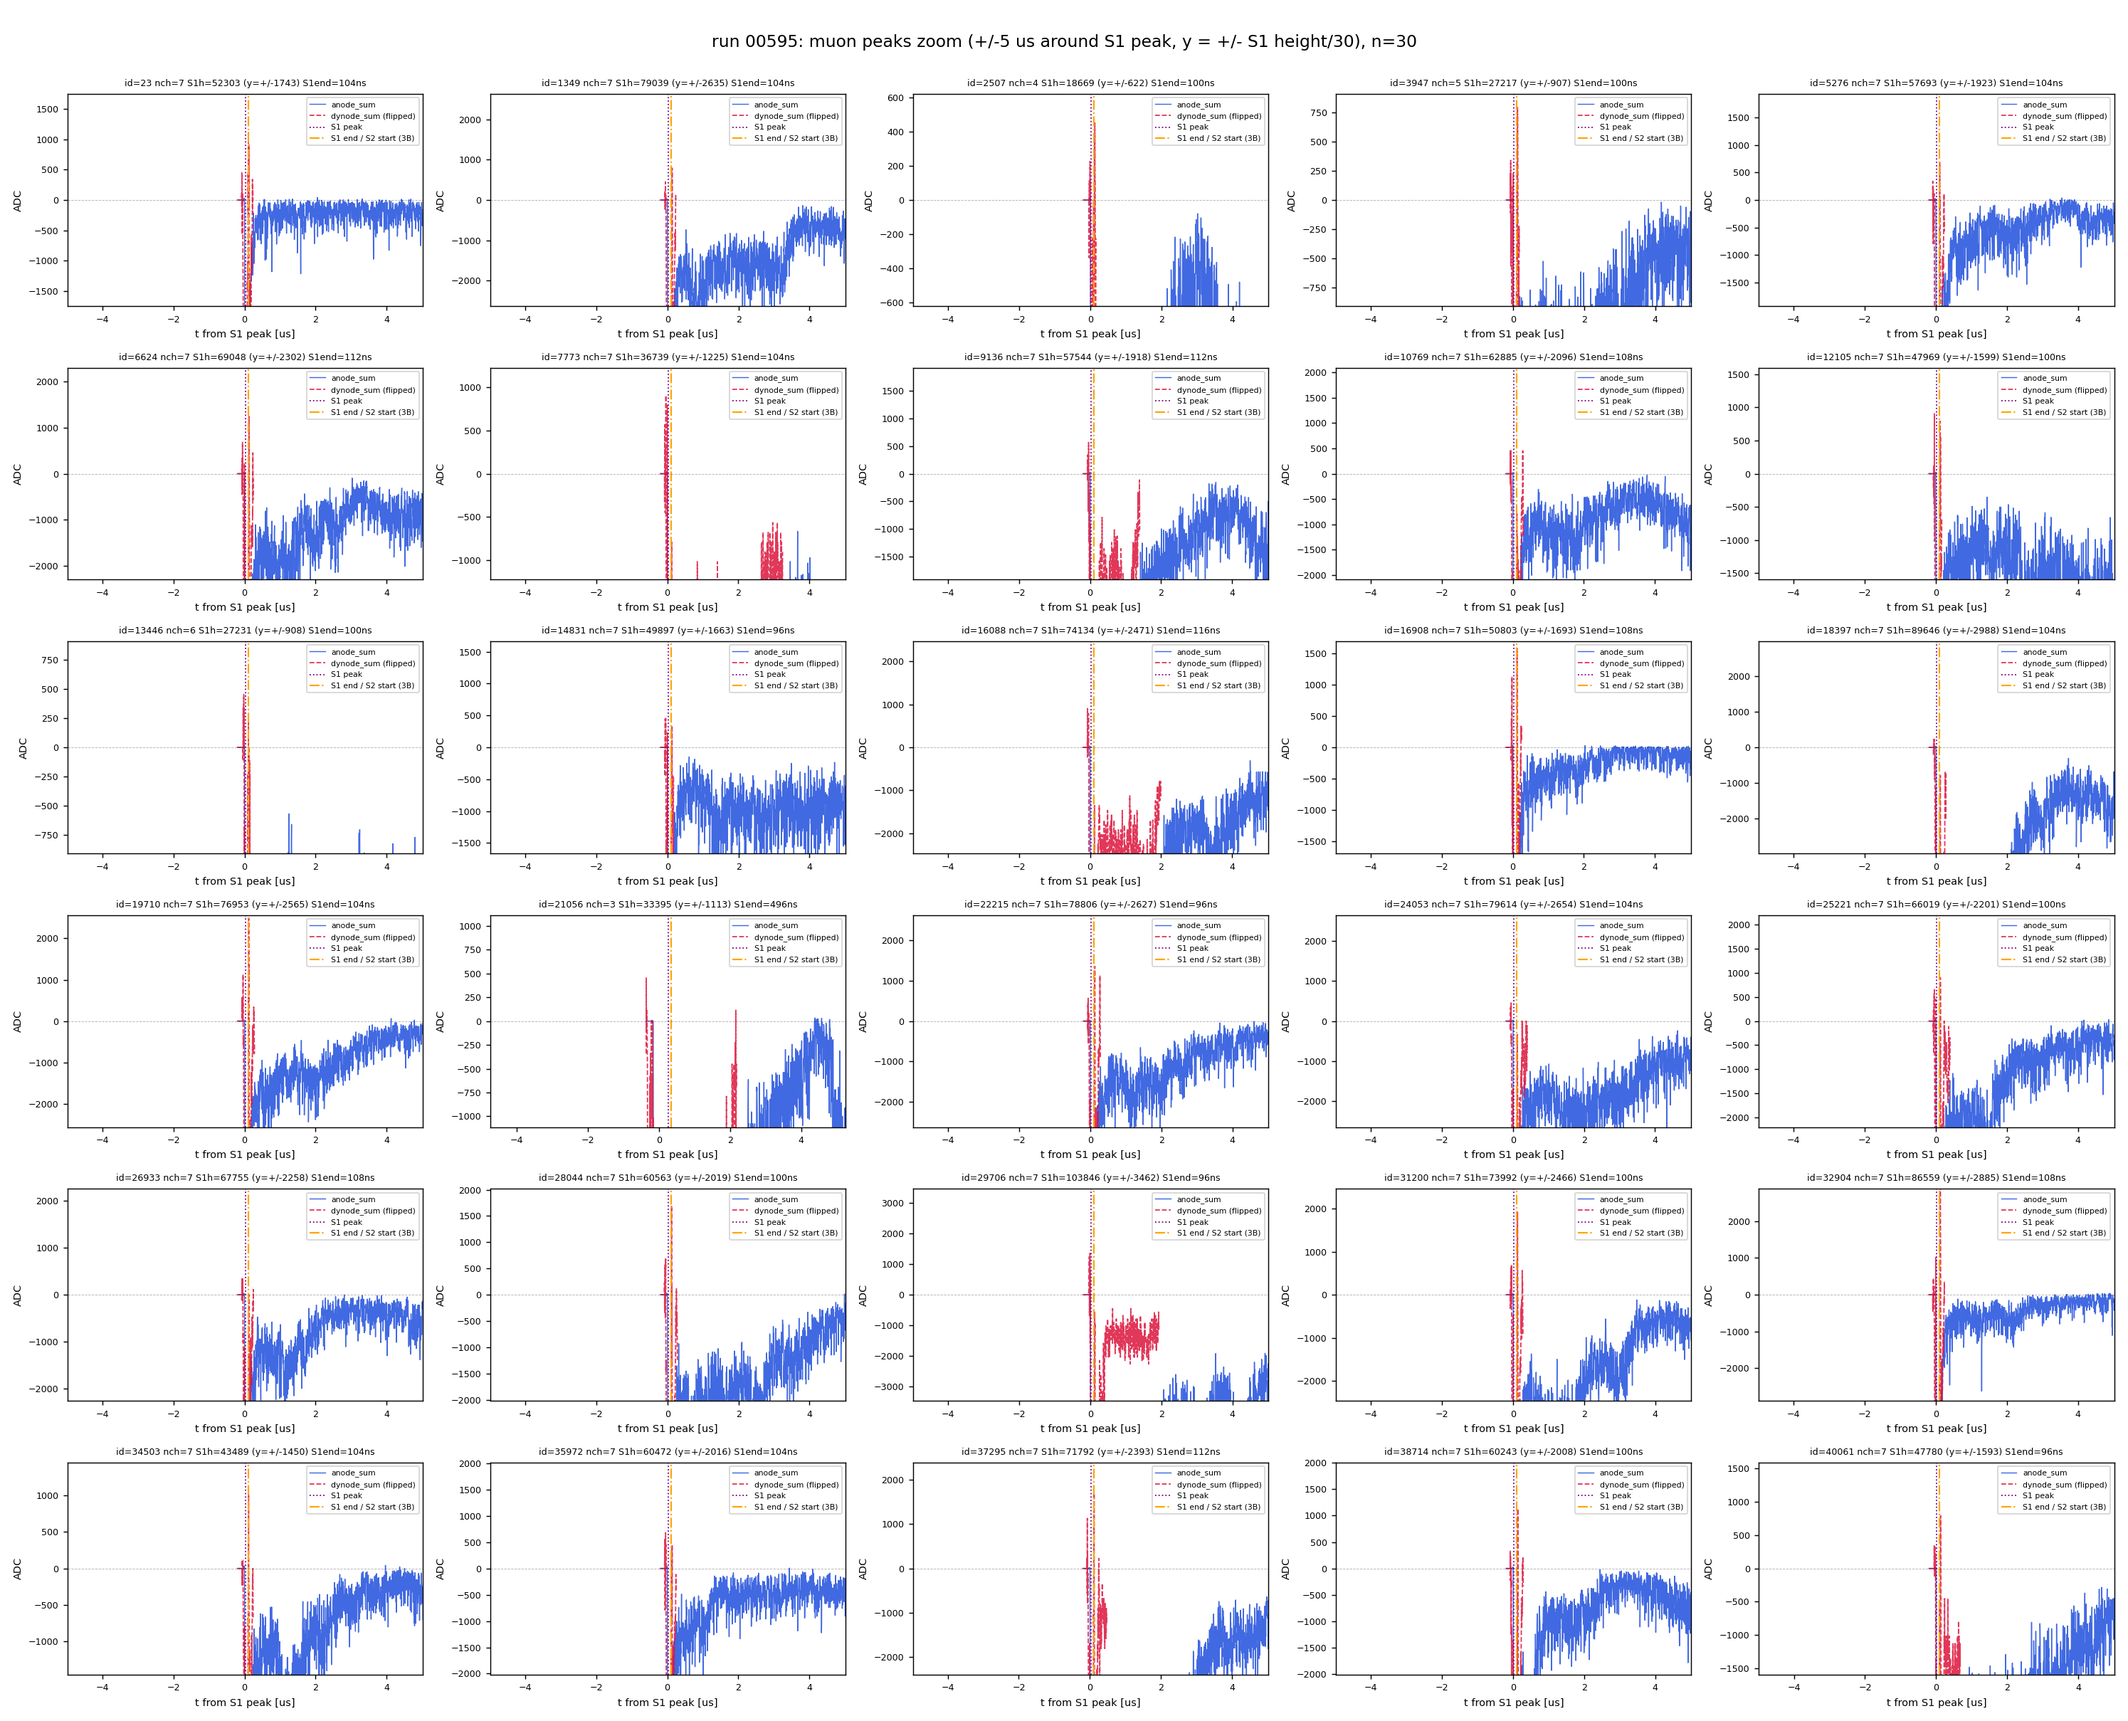
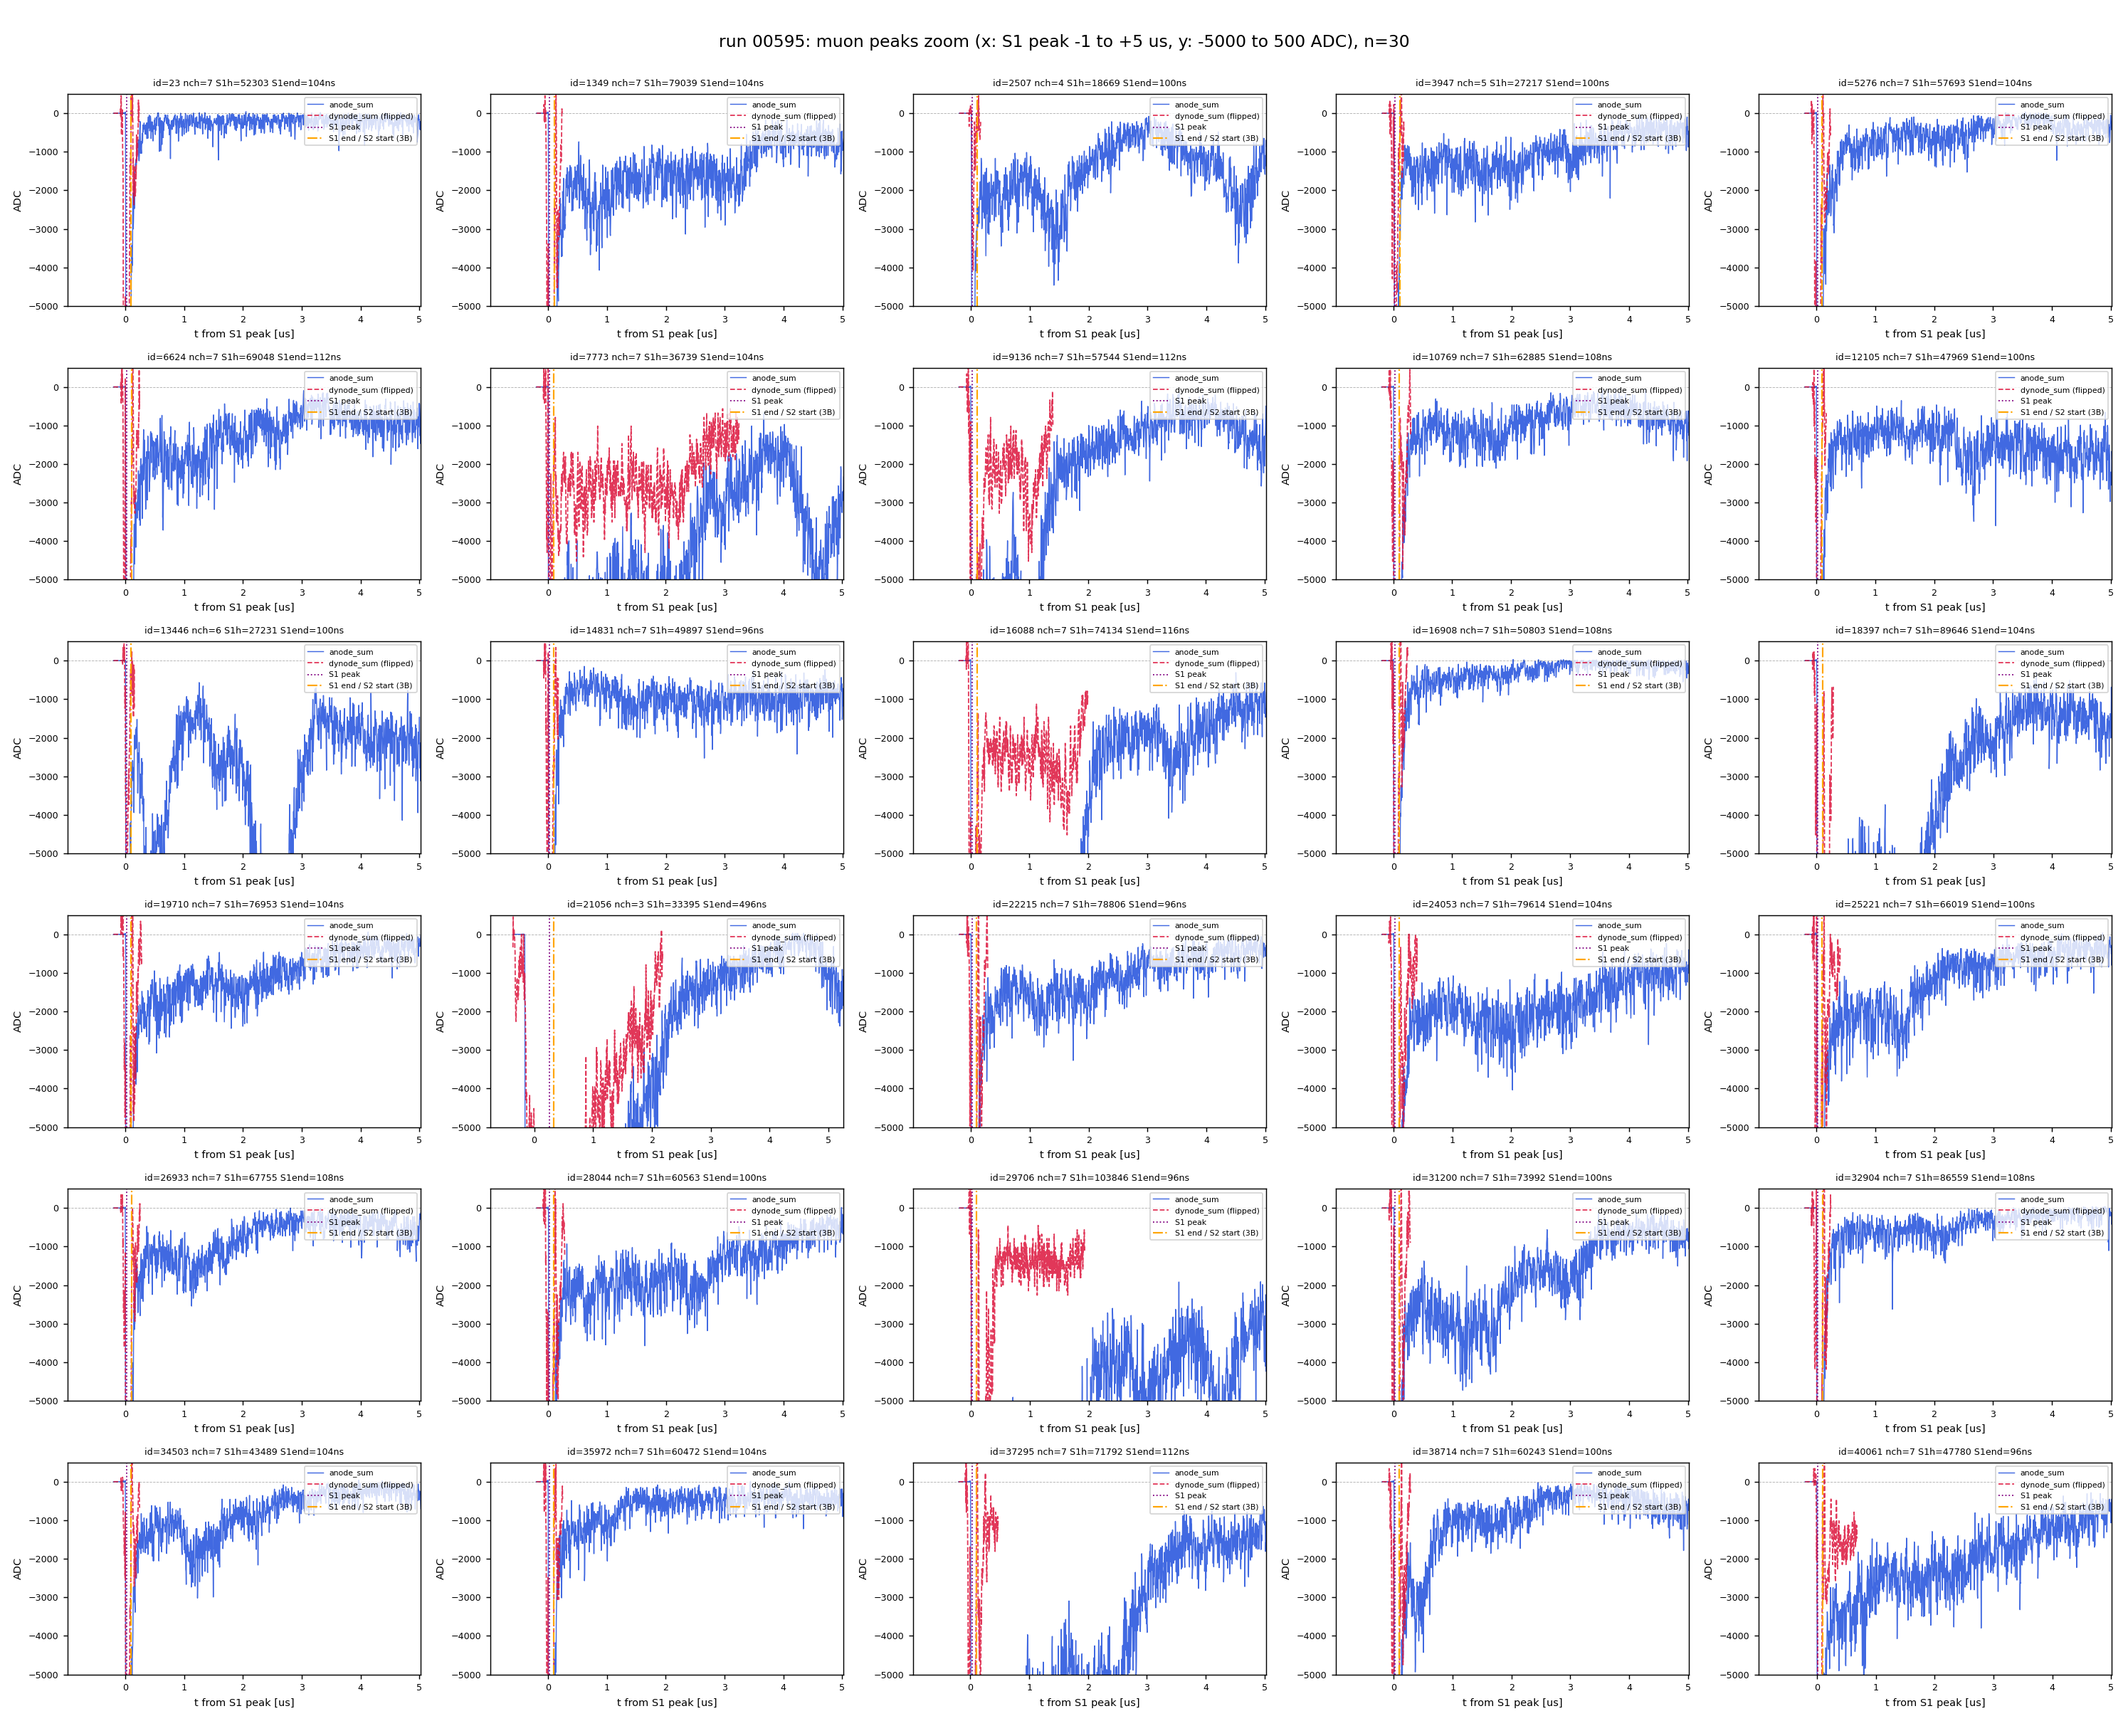
Muon zoom: x from -1us to +5us around S1 peak, y fixed -5000 to +500 ADC

diff --git a/scripts/plot_muon_examples_zoom.py b/scripts/plot_muon_examples_zoom.py
@@ -21,8 +21,8 @@ from muon_analysis.gain import build_gain_db
 RUN = "00595"
 N_EX = 30
 MIN_DECAY, MAX_DECAY = 20, 500
-ZOOM_US = 5.0
-Y_FRAC = 30.0
+ZOOM_MIN_US, ZOOM_MAX_US = -1.0, 5.0
+Y_MIN, Y_MAX = -5000.0, 500.0
 TMP = "/mnt/data/tmp/muon_analysis/co60_590/peak_level_v2"
 DOCS = "/home/yjj/MuonDAS/docs/figures"
 OUT = f"{TMP}/muon_examples_zoom_run595.png"
@@ -73,19 +73,19 @@ for ax, (pk, pf) in zip(axes, rows):
                label="S1 end / S2 start (3B)")
     ax.axhline(0, color="black", ls="--", alpha=0.3, lw=0.5)
     t0 = (s1_peak - ref) * 4 / 1000.0
-    ax.set_xlim(t0 - ZOOM_US, t0 + ZOOM_US)
-    ax.set_ylim(-s1_h / Y_FRAC, s1_h / Y_FRAC)
+    ax.set_xlim(t0 + ZOOM_MIN_US, t0 + ZOOM_MAX_US)
+    ax.set_ylim(Y_MIN, Y_MAX)
     ax.set_title(f"id={pk.peaks_id} nch={len(pk.anode_records)} S1h={s1_h:.0f} "
-                 f"(y=+/-{s1_h/Y_FRAC:.0f}) S1end={(s1_end-a_st)*4:.0f}ns",
-                 fontsize=7)
+                 f"S1end={(s1_end-a_st)*4:.0f}ns", fontsize=7)
     ax.tick_params(labelsize=7)
     ax.set_xlabel("t from S1 peak [us]", fontsize=8)
     ax.set_ylabel("ADC", fontsize=8)
     ax.legend(fontsize=6, loc="upper right")
 for ax in axes[len(rows):]:
     ax.axis("off")
-fig.suptitle(f"run {RUN}: muon peaks zoom (+/-{ZOOM_US:g} us around S1 peak, "
-             f"y = +/- S1 height/{Y_FRAC:g}), n={len(rows)}", fontsize=13)
+fig.suptitle(f"run {RUN}: muon peaks zoom (x: S1 peak {ZOOM_MIN_US:g} to "
+             f"+{ZOOM_MAX_US:g} us, y: {Y_MIN:g} to {Y_MAX:g} ADC), "
+             f"n={len(rows)}", fontsize=13)
 fig.tight_layout(rect=(0, 0, 1, 0.98))
 fig.savefig(OUT, dpi=130)
 plt.close(fig)
